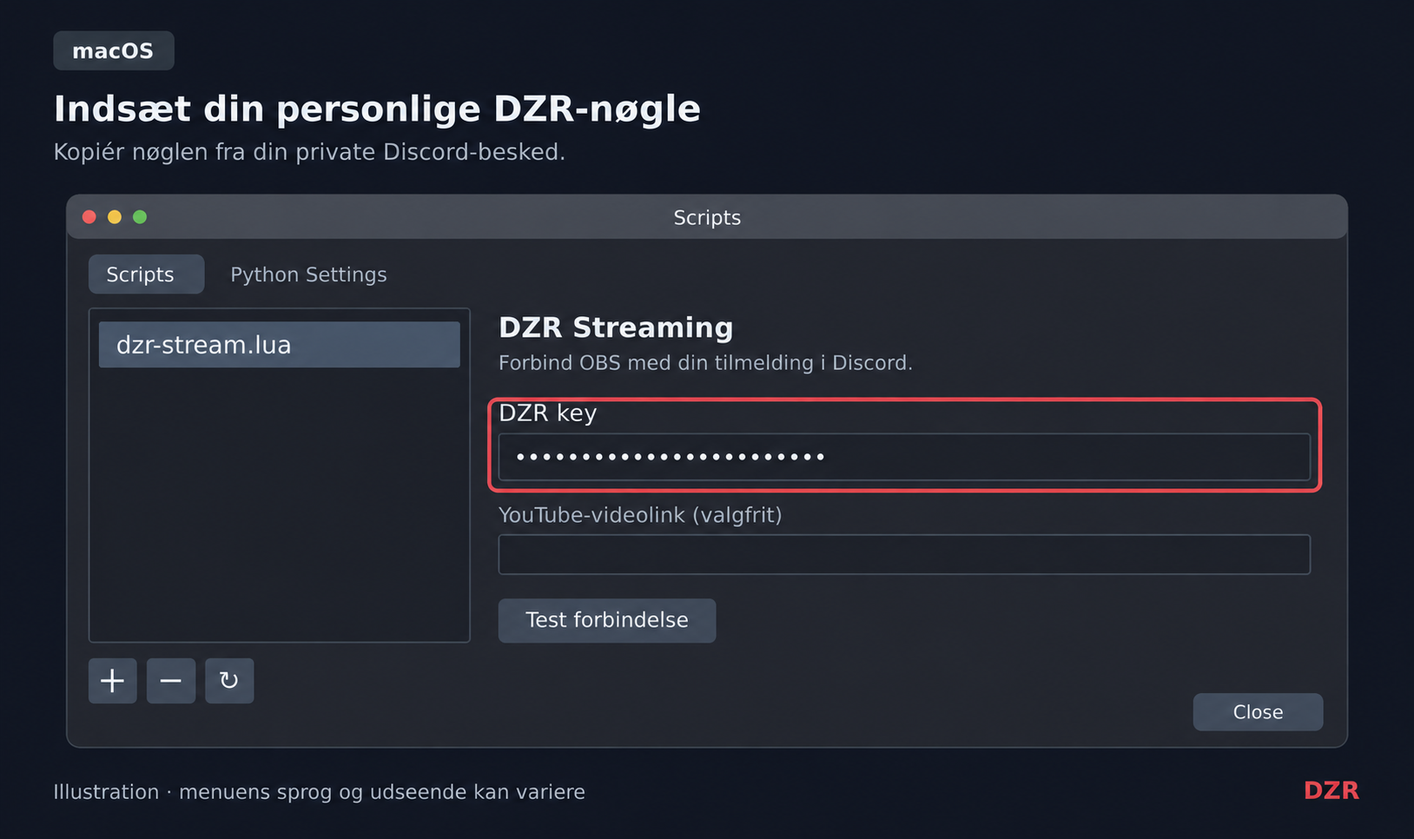
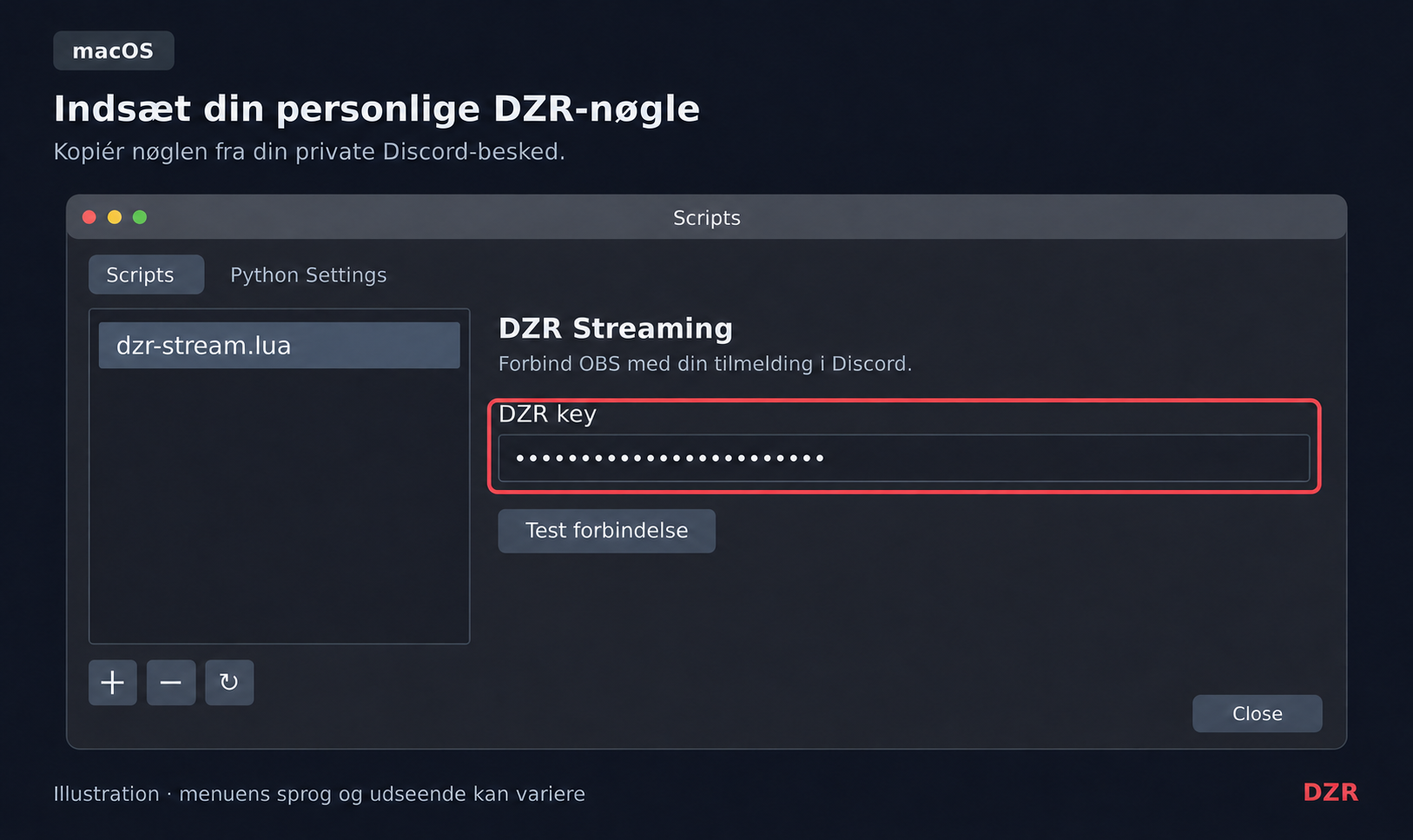
fix(streaming): simplify OBS setup and improve button contrast

diff --git a/components/streaming/StreamingSetupWizard.tsx b/components/streaming/StreamingSetupWizard.tsx
@@ -2,9 +2,8 @@
 
 import React from 'react'
 import {
-  Accordion, AccordionButton, AccordionIcon, AccordionItem, AccordionPanel,
   Alert, AlertIcon, Box, Button, Checkbox, Container, Heading, HStack,
-  Image, Progress, SimpleGrid, Stack, Text,
+  Image, Progress, SimpleGrid, Stack, Text, type ButtonProps,
 } from '@chakra-ui/react'
 import { FaApple, FaCheckCircle, FaDownload, FaWindows } from 'react-icons/fa'
 import {
@@ -22,6 +21,37 @@ const obsSteps = [
   { title: 'Klik på plusset', image: 'add-script', text: 'Klik på + nederst til venstre i Scripts-vinduet.' },
   { title: 'Vælg DZR-filen', image: 'select-file', text: 'Find den DZR-mappe, du brugte i trin 2. Vælg dzr-stream.lua, og klik Åbn / Open.' },
 ]
+
+const buttonFocus = { outline: '2px solid', outlineColor: 'white', outlineOffset: '2px', boxShadow: 'none' }
+const buttonDisabled = { color: 'gray.400', bg: 'gray.800', opacity: 1, cursor: 'not-allowed' }
+const primaryButton = {
+  color: 'white',
+  bg: 'red.600',
+  _hover: { bg: 'red.700' },
+  _active: { bg: 'red.800' },
+  _focusVisible: buttonFocus,
+  _disabled: buttonDisabled,
+  _loading: { color: 'white', bg: 'red.600', cursor: 'wait' },
+} satisfies ButtonProps
+const outlineButton = {
+  variant: 'outline',
+  color: 'white',
+  bg: 'transparent',
+  borderColor: 'gray.500',
+  _hover: { bg: 'gray.700' },
+  _active: { bg: 'gray.600' },
+  _focusVisible: buttonFocus,
+  _disabled: { ...buttonDisabled, borderColor: 'gray.600' },
+} satisfies ButtonProps
+const linkButton = {
+  variant: 'link',
+  color: 'gray.300',
+  bg: 'transparent',
+  _hover: { color: 'white', textDecoration: 'underline' },
+  _active: { color: 'white' },
+  _focusVisible: buttonFocus,
+  _disabled: { color: 'gray.500', opacity: 1, cursor: 'not-allowed', textDecoration: 'none' },
+} satisfies ButtonProps
 
 export default function StreamingSetupWizard({ scriptUrl = '/api/streaming/script' }: Props) {
   const [step, setStep] = React.useState(1)
@@ -153,10 +183,14 @@ export default function StreamingSetupWizard({ scriptUrl = '/api/streaming/scrip
             <Stack spacing={3}>
               <Heading size="md">Fortsæt på computeren med OBS</Heading>
               <Text>Du har åbnet guiden fra en mobil. Guiden gemmer en fil, som du skal bruge på din computer. Vi anbefaler derfor, at du åbner guiden på den Windows-computer eller Mac, hvor du har OBS installeret.</Text>
-              <Button size="lg" colorScheme="orange" onClick={() => copy(new URL('/streaming/setup', window.location.origin).href, 'Guideadressen er kopieret. Send den til din OBS-computer.')}>
+              <Button
+                size="lg" color="white" bg="orange.600" _hover={{ bg: 'orange.700' }}
+                _active={{ bg: 'orange.800' }} _focusVisible={buttonFocus}
+                onClick={() => copy(new URL('/streaming/setup', window.location.origin).href, 'Guideadressen er kopieret. Send den til din OBS-computer.')}
+              >
                 Kopiér guideadresse
               </Button>
-              <Button variant="link" color="white" whiteSpace="normal" onClick={() => setMobileDismissed(true)}>Vis guiden alligevel</Button>
+              <Button {...linkButton} color="white" whiteSpace="normal" onClick={() => setMobileDismissed(true)}>Vis guiden alligevel</Button>
             </Stack>
           </Box>
         )}
@@ -182,7 +216,9 @@ export default function StreamingSetupWizard({ scriptUrl = '/api/streaming/scrip
                       key={value} onClick={() => setOs(value)} aria-pressed={os === value}
                       height="120px" fontSize="xl" color="white" borderWidth="2px"
                       borderColor={os === value ? 'red.400' : 'gray.600'}
-                      bg={os === value ? 'red.900' : 'gray.800'} _hover={{ bg: 'gray.700' }}
+                      bg={os === value ? 'red.900' : 'gray.800'}
+                      _hover={{ bg: os === value ? 'red.800' : 'gray.700' }}
+                      _active={{ bg: os === value ? 'red.700' : 'gray.600' }} _focusVisible={buttonFocus}
                       leftIcon={value === 'windows' ? <FaWindows size={32} /> : <FaApple size={36} />}
                     >{value === 'windows' ? 'Windows' : 'macOS'}</Button>
                   ))}
@@ -198,7 +234,7 @@ export default function StreamingSetupWizard({ scriptUrl = '/api/streaming/scrip
                 {supportsPicker && (
                   <Stack spacing={4}>
                     <Text color="gray.300">Klik på <strong>Installér DZR OBS-script</strong>, og vælg <strong>Dokumenter / Documents</strong> i vinduet, der åbner. Vi opretter selv DZR-mappen i den mappe, du vælger, og gemmer filen dér. Du skal kun vælge Dokumenter og tillade adgang.</Text>
-                    <Button colorScheme="red" size="lg" minH="56px" whiteSpace="normal" onClick={install} isLoading={busy} loadingText="Arbejder…">
+                    <Button {...primaryButton} size="lg" minH="56px" whiteSpace="normal" onClick={install} isLoading={busy} loadingText="Arbejder…">
                       {installation?.status === 'conflict' ? 'Vælg en anden mappe' : 'Installér DZR OBS-script'}
                     </Button>
                   </Stack>
@@ -208,9 +244,9 @@ export default function StreamingSetupWizard({ scriptUrl = '/api/streaming/scrip
                     <Heading as="h2" size="sm">{supportsPicker ? 'Problemer med installation herover?' : 'Hent filen til din computer'}</Heading>
                     <Text color="gray.300">Hent filen, og vælg selv en placering på din computer. Brug en fast mappe, som du ikke sletter senere, da filen skal blive liggende, efter den er tilføjet i OBS.</Text>
                     <Button
+                      {...(supportsPicker ? outlineButton : primaryButton)}
                       leftIcon={<FaDownload />} onClick={download} isDisabled={busy}
-                      variant={supportsPicker ? 'outline' : 'solid'} colorScheme={supportsPicker ? 'gray' : 'red'}
-                      color="white" size="lg" minH="52px" whiteSpace="normal"
+                      size="lg" minH="52px" whiteSpace="normal"
                     >{supportsPicker ? 'Hent filen i stedet' : 'Hent dzr-stream.lua'}</Button>
                   </Stack>
                 )}
@@ -269,16 +305,6 @@ export default function StreamingSetupWizard({ scriptUrl = '/api/streaming/scrip
                   <Text color="gray.400" fontSize="sm">Kan du ikke finde nøglen? Beskeden kan forsvinde, når du genstarter Discord. Få en ny via /streaming_add; når du gemmer, bliver den gamle nøgle ugyldig. Indsæt derefter den nye nøgle i OBS.</Text>
                 </Stack>
                 <Text color="gray.300">Du kan streame til én eller flere platforme på samme tid. DZR finder automatisk aktive streams på dine tilmeldte YouTube- og Twitch-kanaler, så du behøver ikke begrænse dig til én platform.</Text>
-                <Accordion allowToggle>
-                  <AccordionItem borderColor="gray.700">
-                    <h3><AccordionButton px={0} py={3}><Box flex="1" textAlign="left">YouTube-videolink – valgfrit</Box><AccordionIcon /></AccordionButton></h3>
-                    <AccordionPanel px={0} color="gray.300">
-                      <Stack spacing={3}>
-                        <Text><strong>YouTube-videolink</strong> er valgfrit. Du kan lade feltet stå tomt. Et link til den aktuelle stream kan gøre live-verifikationen hurtigere; opdatér det, hvis du bruger det.</Text>
-                      </Stack>
-                    </AccordionPanel>
-                  </AccordionItem>
-                </Accordion>
               </Stack>
             )}
 
@@ -292,9 +318,9 @@ export default function StreamingSetupWizard({ scriptUrl = '/api/streaming/scrip
                 {finished ? (
                   <Text color="green.300" fontWeight="bold" role="status">Guiden er afsluttet. Du kan lukke denne side.</Text>
                 ) : (
-                  <Button colorScheme="red" size="lg" minH="56px" onClick={() => setFinished(true)}>Afslut uden test</Button>
+                  <Button {...primaryButton} size="lg" minH="56px" onClick={() => setFinished(true)}>Afslut uden test</Button>
                 )}
-                <Button color="white" variant="outline" size="lg" whiteSpace="normal" minH="52px" onClick={() => setShowTest(!showTest)} aria-expanded={showTest} aria-controls="connection-test">
+                <Button {...outlineButton} size="lg" whiteSpace="normal" minH="52px" onClick={() => setShowTest(!showTest)} aria-expanded={showTest} aria-controls="connection-test">
                   {showTest ? 'Skjul forbindelsestest' : 'Vis forbindelsestest – valgfrit'}
                 </Button>
                 {showTest && (
@@ -304,7 +330,7 @@ export default function StreamingSetupWizard({ scriptUrl = '/api/streaming/scrip
                     <Text><strong>3.</strong> Kontrollér, at tidspunktet for signalet passer med din nye test.</Text>
                     <Text color="gray.300" fontSize="sm">Intet nyt signal? Kontrollér, at din personlige nøgle er indsat i DZR key, og prøv igen. Find statusknappen i din private Discord-besked fra /streaming_add.</Text>
                     <Text color="gray.300" fontSize="sm">Testen sender ingen offentlig besked. En annonce kræver, at din offentlige livestream er verificeret.</Text>
-                    {!finished && <Button colorScheme="red" size="lg" onClick={() => setFinished(true)}>Afslut guiden</Button>}
+                    {!finished && <Button {...primaryButton} size="lg" onClick={() => setFinished(true)}>Afslut guiden</Button>}
                   </Stack>
                 )}
               </Stack>
@@ -315,19 +341,19 @@ export default function StreamingSetupWizard({ scriptUrl = '/api/streaming/scrip
 
             {step < 5 && (
               <Stack direction={{ base: 'column-reverse', sm: 'row' }} spacing={3} pt={2}>
-                {step > 1 && <Button color="white" size="lg" variant="outline" onClick={back} isDisabled={busy}>Tilbage</Button>}
+                {step > 1 && <Button {...outlineButton} size="lg" onClick={back} isDisabled={busy}>Tilbage</Button>}
                 {(step !== 2 || fileReceived) && (
                   <Button
-                    colorScheme="red" size="lg" minH="52px" flex="1" whiteSpace="normal" onClick={next}
+                    {...primaryButton} size="lg" minH="52px" flex="1" whiteSpace="normal" onClick={next}
                     isDisabled={busy || (step === 1 && !os) || (step === 2 && !fileReady)}
                   >{step === 2 ? 'Filen er klar – fortsæt' : step === 4 ? 'Jeg har udfyldt OBS' : 'Fortsæt'}</Button>
                 )}
               </Stack>
             )}
-            {step === 5 && <Button variant="link" color="gray.300" alignSelf="start" onClick={back}>Tilbage til indstillingerne</Button>}
+            {step === 5 && <Button {...linkButton} alignSelf="start" onClick={back}>Tilbage til indstillingerne</Button>}
           </Stack>
         </Box>
-        {os && <Button variant="link" color="gray.400" alignSelf="start" isDisabled={busy} onClick={() => goTo(1)}>Computer: {os === 'windows' ? 'Windows' : 'macOS'} · Skift</Button>}
+        {os && <Button {...linkButton} color="gray.400" alignSelf="start" isDisabled={busy} onClick={() => goTo(1)}>Computer: {os === 'windows' ? 'Windows' : 'macOS'} · Skift</Button>}
       </Stack>
     </Container>
   )

diff --git a/apps/bot/services/streaming/lua.test.js b/apps/bot/services/streaming/lua.test.js
@@ -56,7 +56,7 @@ local service_name, service_available = "YouTube - RTMPS", true
 local clock = os.time()
 os.time = function() return clock end
 obslua = {
-  LOG_INFO=1, LOG_WARNING=2, LOG_ERROR=3, OBS_TEXT_DEFAULT=0, OBS_TEXT_PASSWORD=1,
+  LOG_INFO=1, LOG_WARNING=2, LOG_ERROR=3, OBS_TEXT_PASSWORD=1,
   OBS_COMBO_TYPE_LIST=0, OBS_COMBO_FORMAT_STRING=0,
   OBS_FRONTEND_EVENT_STREAMING_STARTED=1, OBS_FRONTEND_EVENT_STREAMING_STOPPED=2,
   script_log=function(_, message) print(message) end,
@@ -92,7 +92,7 @@ dofile(${JSON.stringify(script)})
 script_load({endpoint="https://attacker.example/streaming/obs", key=${JSON.stringify(token)}, platform="auto"})
 local properties = script_properties()
 assert(properties.key.style == obslua.OBS_TEXT_PASSWORD, "DZR key must remain masked")
-assert(properties.video_link and not properties.endpoint, "only key and optional video link are editable")
+assert(not properties.endpoint, "endpoint must not be editable")
 local function pump(count) for i=1,count do tick(); ffi.C.usleep(10000) end end
 test_button(); pump(50)
 clock=clock+3; pump(50) -- retry the deliberately failed first request
@@ -101,7 +101,7 @@ event(1); pump(20) -- duplicate OBS event is ignored
 clock=clock+31; pump(50)
 event(2); pump(50)
 service_name="Twitch"
-script_update({endpoint="https://old-bot.example/streaming/obs", key=${JSON.stringify(token)}, video_link="https://www.youtube.com/watch?v=abcdefghijk"})
+script_update({endpoint="https://old-bot.example/streaming/obs", key=${JSON.stringify(token)}})
 test_button(); pump(50)
 event(1); pump(50)
 event(2); pump(50)
@@ -132,9 +132,6 @@ script_unload()
   assert.equal(requests[2].body.sessionId, requests[4].body.sessionId);
   assert.equal(requests[8].body.sessionId, requests[9].body.sessionId);
   assert.equal(requests[8].body.startedAt, requests[9].body.startedAt);
-  assert.equal(requests[5].body.videoId, "abcdefghijk");
-  assert.equal(requests[6].body.videoId, "abcdefghijk");
-  assert.equal(requests[8].body.videoId, "abcdefghijk");
   assert.ok(!output.includes("Ukendt streamingplatform"), output);
   assert.ok(requests.every((r) => r.authorization === `Bearer ${token}` && r.url === "/streaming/obs"));
   assert.ok(!output.includes(token));

diff --git a/apps/bot/handlers/streamingHandlers.js b/apps/bot/handlers/streamingHandlers.js
@@ -149,8 +149,7 @@ function createStreamingHandlers({ service, guildId, adminRoleId, publicUrl, cha
             { name: "DZR key — din personlige DZR-nøgle", value: `Kopiér denne nøgle, og indsæt den i **DZR key**:\n\`${token}\`\n`
               + "Den forbinder OBS med din DZR-tilmelding. Det er ikke din streamnøgle til YouTube eller Twitch.\n"
               + "Nøglen vises kun i denne private besked. Del den ikke. En tidligere DZR-nøgle er nu ugyldig; opdatér derfor også OBS, hvis du var tilmeldt før." },
-            { name: "Dine streamingplatforme", value: "DZR finder automatisk ud af, hvilke af dine tilmeldte YouTube- og Twitch-kanaler der er live. Du kan streame til en eller flere platforme på samme tid og behøver ikke nøjes med én.\n"
-              + "**YouTube-videolink** er valgfrit og kan stå tomt. Brug linket til den aktuelle stream; hvis videoen ikke er live, søger DZR automatisk på din kanal." },
+            { name: "Dine streamingplatforme", value: "DZR finder automatisk ud af, hvilke af dine tilmeldte YouTube- og Twitch-kanaler der er live. Du kan streame til en eller flere platforme på samme tid og behøver ikke nøjes med én." },
           );
         const connection = new EmbedBuilder().setTitle("3. Test forbindelsen").setColor(0x3498db)
           .setDescription("1. Klik på **Test forbindelse** i OBS.\n"

diff --git a/apps/bot/services/streaming/service.test.js b/apps/bot/services/streaming/service.test.js
@@ -299,16 +299,16 @@ test("persistent YouTube search budget is shared by concurrent callers and reset
   assert.equal(await s.store.reserveSearch(), true);
 });
 
-test("legacy callback platform is only a hint; verification stays on registered channels and keys remain owner-bound", async () => {
+test("legacy callbacks pass the video ID to the registered YouTube channel even with a Twitch hint", async () => {
   const s = setup(); const { token } = await s.enroll();
   const checked = [];
   s.providers.verify = async (registeredChannel, session) => {
-    checked.push({ channelId: registeredChannel.id, platform: session.platform });
+    checked.push({ channelId: registeredChannel.id, platform: session.platform, videoId: session.videoId });
     return { streams: [stream] };
   };
-  await s.service.callback(token, s.event({ platform: "twitch" }));
+  await s.service.callback(token, s.event({ platform: "twitch", videoId: stream.id }));
   await s.service.tick();
-  assert.deepEqual(checked, [{ channelId: channel.id, platform: "youtube" }]);
+  assert.deepEqual(checked, [{ channelId: channel.id, platform: "youtube", videoId: stream.id }]);
   assert.equal(s.published.length, 1);
   await assert.rejects(s.service.callback(token.replace(userId, "222222222222222222"), s.event()), { code: "invalid_key" });
 });

diff --git a/apps/bot/services/streaming/handlers.test.js b/apps/bot/services/streaming/handlers.test.js
@@ -173,8 +173,9 @@ test("modal returns download and personal key privately without endpoint configu
   assert.equal(i.calls[1][1].embeds.length, 3);
   assert.ok(reply.includes("Downloads / Overførsler"));
   assert.ok(reply.includes("Test forbindelse"));
-  assert.ok(reply.includes("DZR finder automatisk"));
-  assert.ok(reply.includes("en eller flere platforme på samme tid"));
+  const platforms = i.calls[1][1].embeds[1].toJSON().fields.find((field) => field.name === "Dine streamingplatforme");
+  assert.match(platforms.value, /DZR finder automatisk ud af, hvilke af dine tilmeldte YouTube- og Twitch-kanaler der er live/);
+  assert.match(platforms.value, /en eller flere platforme på samme tid/);
   assert.ok(reply.includes("inden for fem minutter"));
   assert.ok(!reply.includes("Vælg **YouTube** eller **Twitch**"));
   assert.equal(i.calls[1][1].components[0].toJSON().components[0].custom_id, `streaming:status:${userId}`);

diff --git a/docs/architecture/streaming.md b/docs/architecture/streaming.md
@@ -60,7 +60,7 @@ The member installs Lua in OBS Studio. OBS dispatches frontend events and timer 
 
 YouTube channel links may include sharing parameters, which are discarded. Members can also paste a YouTube video link: the provider resolves its video ID with `videos.list`, then fetches the channel with `channels.list`. Enrollment stores the channel ID and prefers the channel's handle URL, falling back to its `/channel/UC…` URL. Resolution never uses search or fetches a user-supplied URL.
 
-The private OBS guide separates downloading `dzr-stream.lua`, opening **Tools / Værktøjer → Scripts**, clicking **+**, and selecting the file from **Downloads / Overførsler**. It explains the **DZR key** field, simultaneous platforms, automatic discovery of registered channels and the optional YouTube video link, then directs members to test in OBS and confirm the signal time in Discord. Keys are delivered in ephemeral replies, which can disappear; they are not ordinary DMs and the guide does not promise search-based recovery.
+The private OBS guide separates downloading `dzr-stream.lua`, opening **Tools / Værktøjer → Scripts**, clicking **+**, and selecting the file from **Downloads / Overførsler**. It explains the **DZR key** field and how DZR automatically checks registered channels, including simultaneous streams. It then directs members to test in OBS and confirm the signal time in Discord. Keys are delivered in ephemeral replies, which can disappear; they are not ordinary DMs and the guide does not promise search-based recovery.
 
 `/streaming_add_new` registers at normal bot startup and adds a browser guide using the same Club Member checks, modal, enrollment service, registration records, private keys and Lua distribution. New registrations get a private one-time key and guide link. Existing registrations reopen the guide without enrollment or key rotation. A `createOnly` transaction guard also preserves the registration on duplicate/stale form submissions. The original command keeps its messages and rotation behavior.
 
@@ -138,7 +138,7 @@ The worker wakes every five seconds and claims due jobs with Firestore leases. B
 
 Initial discovery lasts at most **one hour from OBS start**. The first verified public platform is announced immediately and fixes a separate **five-minute additional-platform discovery window**, measured from the bot's verification time rather than provider start or Discord delivery. Remaining registered channels are polled at one-minute intervals within that window. Stop early when all platforms are found; no new discovery requests start after the deadline. Heartbeats, API failures and OBS reconnects in the same broadcast do not reset either deadline. An unused channel is hidden and does not create a timeout report when another platform was found. When no platform was found within the initial hour, the existing discovery-timeout alert remains. Delivery retries use already verified platform data without polling known streams before OBS stops.
 
-YouTube uses search only during those callback-triggered attempts to find the concrete video; a supplied video link is checked first and skips search only when verified live on the registered channel. Otherwise live search continues, including for stale, private, unavailable or upcoming supplied links. An initial empty live search can discover upcoming IDs once. Later attempts check cached candidates first, then keep searching for live videos if none qualifies; an unrelated upcoming video cannot pin discovery to itself. Searches reserve a persisted daily budget before the API call (default 90, reset at Pacific midnight). Each search costs 100 YouTube quota units; the cap is shared across members and must fit the project's other API usage. With successful API responses and no known video or results, a full one-hour attempt uses at most 16 live searches plus one upcoming search.
+YouTube uses search only during those callback-triggered attempts to find the concrete video. A `videoId` from a legacy OBS script is checked first and skips search only when verified live on the registered channel. Otherwise live search continues, including for stale, private, unavailable or upcoming videos. An initial empty live search can discover upcoming IDs once. Later attempts check cached candidates first, then keep searching for live videos if none qualifies; an unrelated upcoming video cannot pin discovery to itself. Searches reserve a persisted daily budget before the API call (default 90, reset at Pacific midnight). Each search costs 100 YouTube quota units; the cap is shared across members and must fit the project's other API usage. With successful API responses and no known video or results, a full one-hour attempt uses at most 16 live searches plus one upcoming search.
 
 YouTube requires the registered channel ID, public visibility, `liveBroadcastContent=live`, actual start and no actual end. Twitch directly checks the registered broadcaster and `type=live`, using a cached app token. OBS output and scheduled times alone never count. API/indexing delays still affect detection latency; provider classifications such as YouTube Premieres require acceptance testing.
 

diff --git a/public/streaming/setup/README.md b/public/streaming/setup/README.md
@@ -5,7 +5,7 @@ The ten WebP assets are original DZR **click illustrations**, not screenshots. E
 ## UI references
 
 - [Official OBS Scripting Guide](https://obsproject.com/kb/scripting-guide): Tools → Scripts, the scripts list on the left, editable properties on the right, and the **+** button below the list. Consulted 2026-11-08. The guide's illustrated OBS release and operating system are not identified; its discussion includes v26.1. No exact current OBS release is asserted by these illustrations.
-- [DZR's distributed Lua script](../../../apps/bot/assets/dzr-stream.lua): the actual fields are **DZR key** and the optional **YouTube-videolink**, followed by **Test forbindelse**. The key field is masked. The endpoint is built into the Lua file; there is no endpoint field or platform picker.
+- [DZR's distributed Lua script](../../../apps/bot/assets/dzr-stream.lua): the masked **DZR key** field is followed by **Test forbindelse**. The endpoint is built into the Lua file; there is no endpoint field or platform picker.
 - The Windows file-placement illustration follows the familiar Windows 11 File Explorer layout, with its menus closed. The [user-provided File Explorer reference](https://www.easeus.com/images/en/data-recovery/drw-pro/show-hidden-items-downloads-folder.png) informed the requested layout; no pixels from that screenshot are distributed. Menu labels, window decoration, translations and theme can differ on the user's computer. `Documents / Dokumenter → DZR` is an example permanent location, not an assumed or automatically discovered filesystem path.
 
 Authentic current Windows/macOS screenshots were not available in this Linux execution environment. These illustrations are the approved MVP fallback; they must not be described as native screenshots or evidence of a successful installation. Native acceptance testing remains required on Windows and macOS with official OBS Studio. Check Tools/Scripts, **+**, file navigation and the DZR properties against the installed OBS version. Prefer replacement native screenshots captured during that test, with dummy/masked credentials and capture-version details added here.
@@ -22,9 +22,9 @@ Each operating-system directory contains:
 | `select-file.webp` | Selecting `dzr-stream.lua` and clicking Open |
 | `configure.webp` | The real DZR property names; example key shown only as masking dots |
 
-All served assets are 1280 × 760 pixels with a landscape aspect ratio and DZR's dark background/red action accent. The Windows `save-file` illustration and both `configure` illustrations were regenerated with image generation on 2026-11-14. The Windows `select-file` illustration was regenerated on 2026-11-15 using the `save-file` image as its visual reference. Their lossless PNG originals are stored in `sources/`; the older, superseded SVGs were removed. The remaining six illustrations retain their SVG originals and DejaVu Sans text. No third-party screenshot pixels are distributed.
+All served assets are 1280 × 760 pixels with a landscape aspect ratio and DZR's dark background/red action accent. The Windows `save-file` illustration was regenerated with image generation on 2026-11-14. The Windows `select-file` illustration was regenerated on 2026-11-15 using the `save-file` image as its visual reference. Both `configure` illustrations were updated with image generation on 2026-11-17. The four illustrations have lossless PNG originals in `sources/`. The remaining six illustrations retain their SVG originals and DejaVu Sans text. No third-party screenshot pixels are distributed.
 
-The Windows file-placement image shows a normal File Explorer window at `Documents → DZR`, a selected `dzr-stream.lua`, and no expanded menu. The matching file-selection image shows the same folder and file in a Windows-style Open dialog, with the filename field, Lua file filter and highlighted **Åbn** button. Both configuration images show only the masked key, optional YouTube link and connection-test button. These generated illustrations support the guide; they do not document an actual Windows/macOS installation or connection test.
+The Windows file-placement image shows a normal File Explorer window at `Documents → DZR`, a selected `dzr-stream.lua`, and no expanded menu. The matching file-selection image shows the same folder and file in a Windows-style Open dialog, with the filename field, Lua file filter and highlighted **Åbn** button. Both configuration images show the masked key and connection-test button. These generated illustrations support the guide; they do not document an actual Windows/macOS installation or connection test.
 
 To regenerate a WebP after editing its SVG, use the root project's existing `sharp` dependency (no new package):
 
